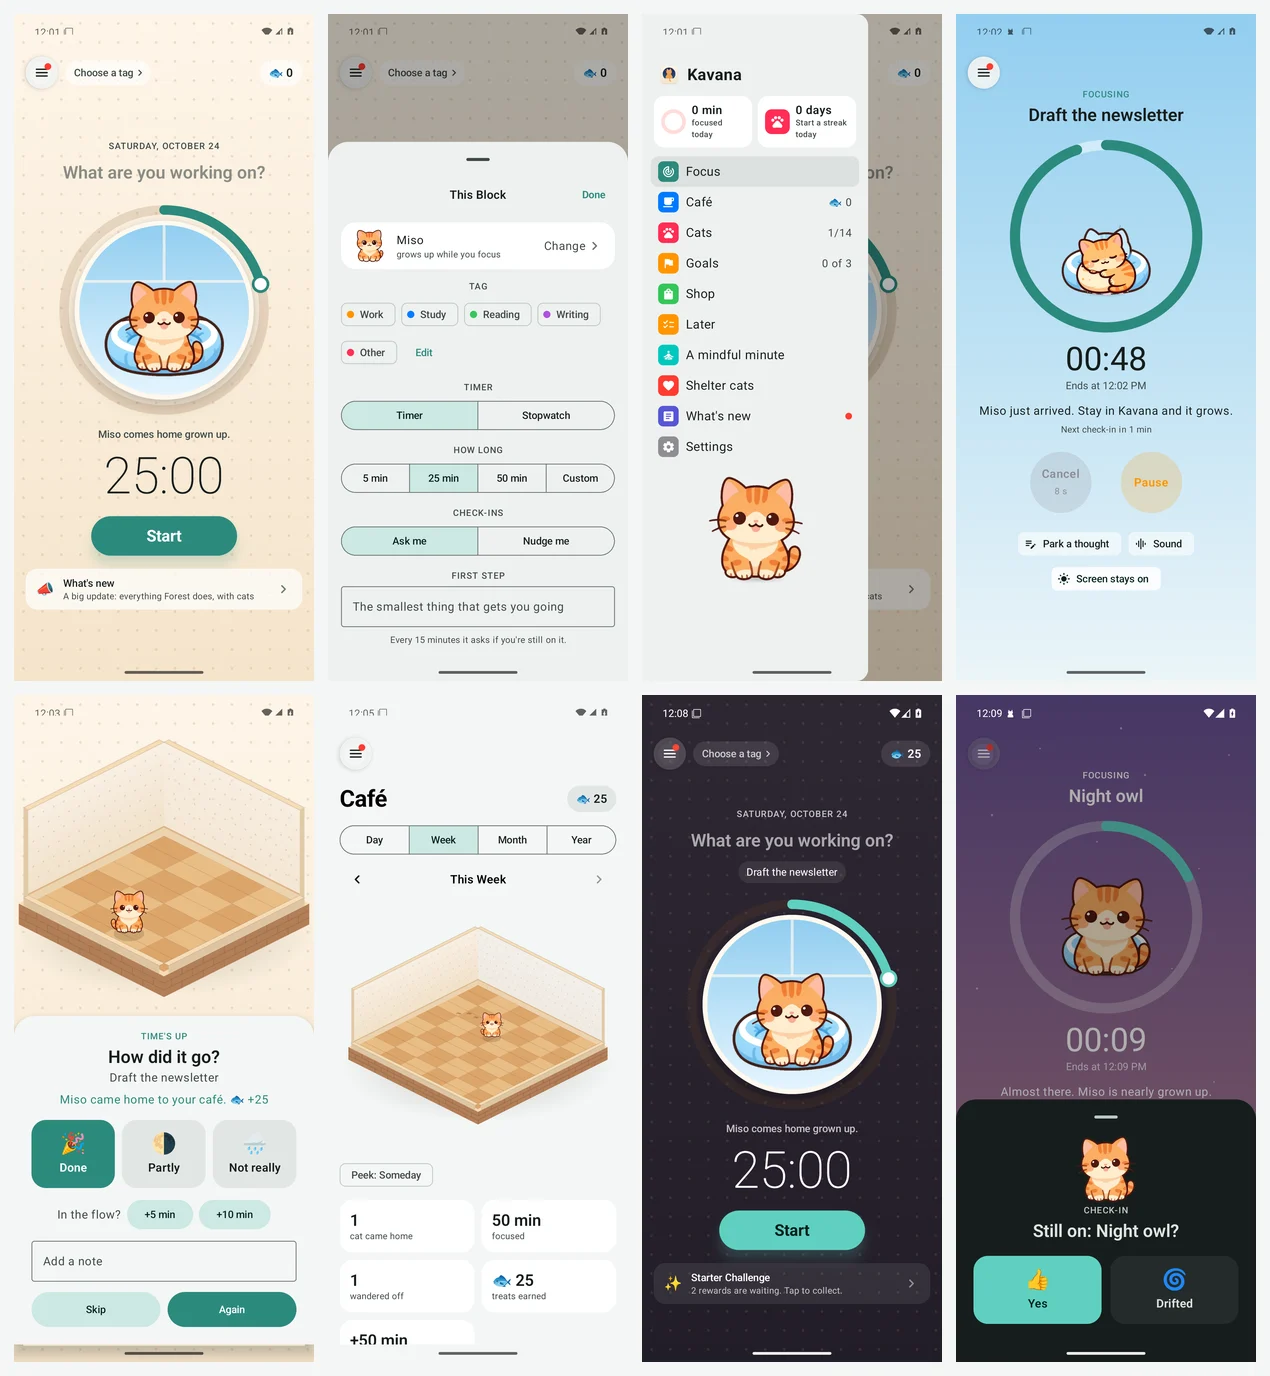
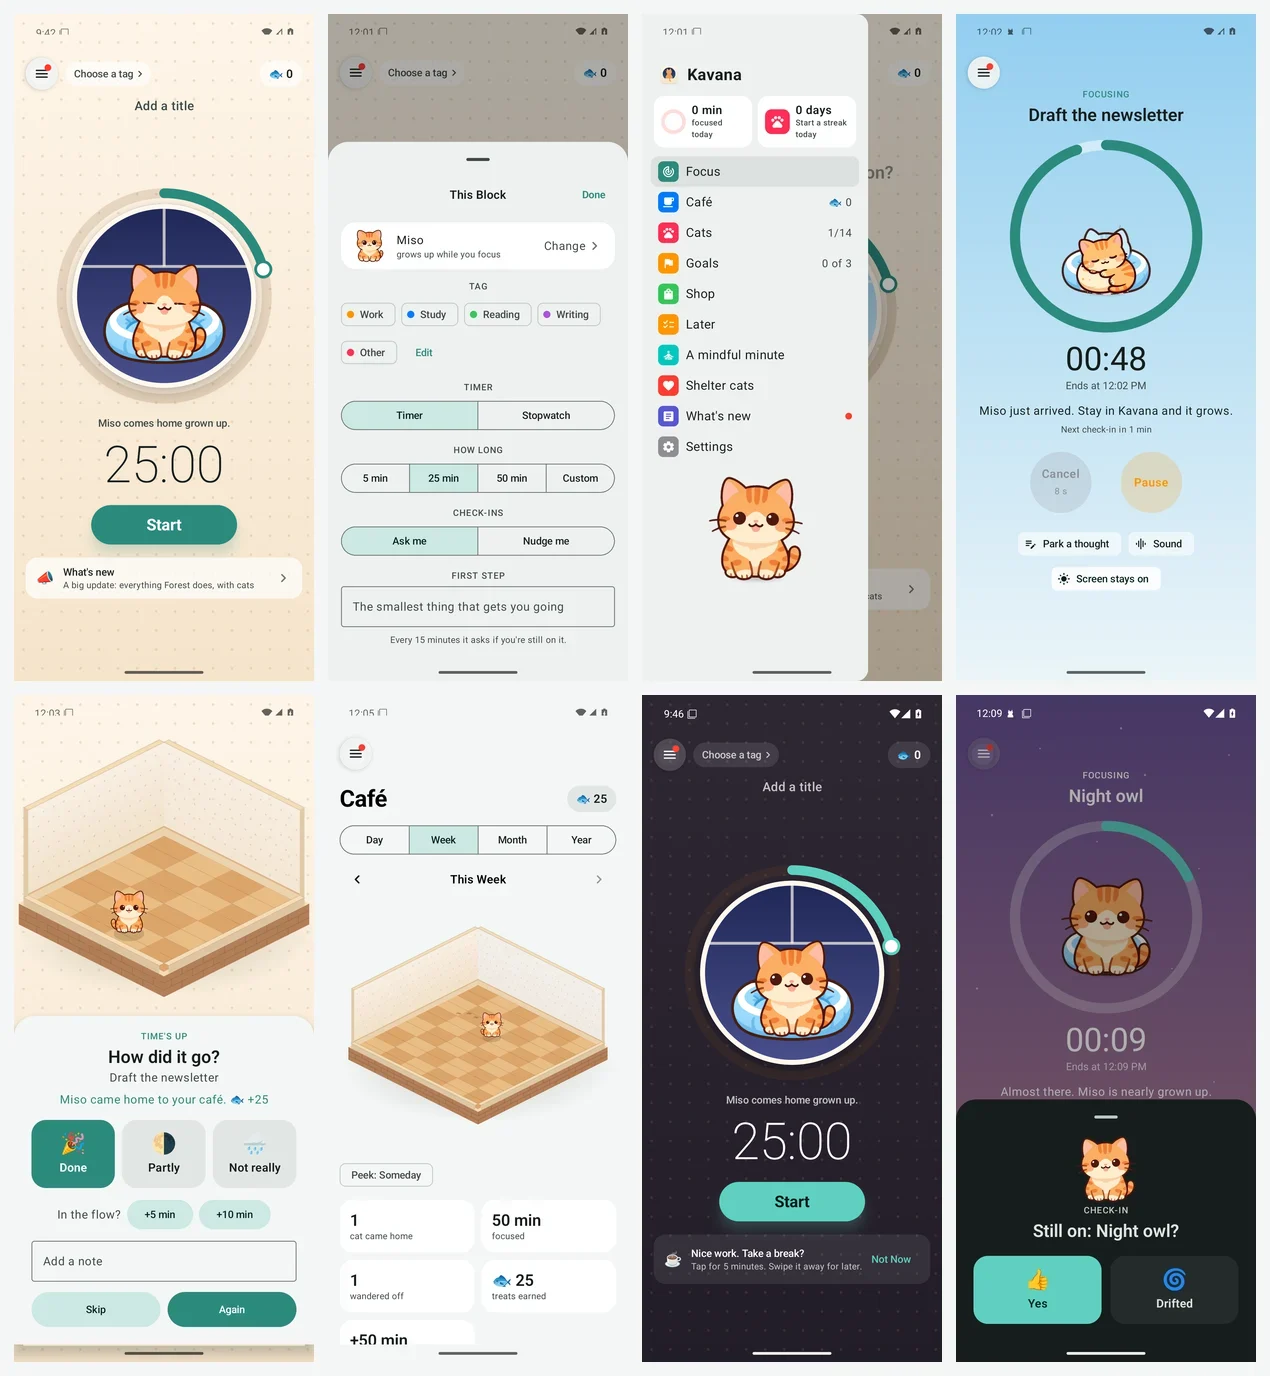
README: the new start screen, with "Add a title", in the screenshots

diff --git a/README.md b/README.md
@@ -4,7 +4,7 @@ These are the native apps for Kavana, my focus app. The web version lives at htt
 
 ## Android (android/)
 
-![Kavana for Android: the start screen, a block with the kitten in the ring, the cat over the home screen, a check-in on the cat, "How did it go?", the Café, Cats, and dark mode](docs/android.webp)
+![Kavana for Android: the start screen, This Block, the menu, the sky during a block, the cat coming home to the café, the Café in 3D, and dark mode with a check-in](docs/android.webp)
 
 **Install it:** download the APK from the newest release on the [Releases page](https://github.com/franz-rosenzweig/kavana-apps/releases/latest) on your phone and open it (Android 12 or newer). The first time, Android asks you to allow installs from that source, which is normal for apps that don't come from the Play Store. If you'd rather get updates by themselves, add `https://github.com/franz-rosenzweig/kavana-apps` to Obtainium.
 
